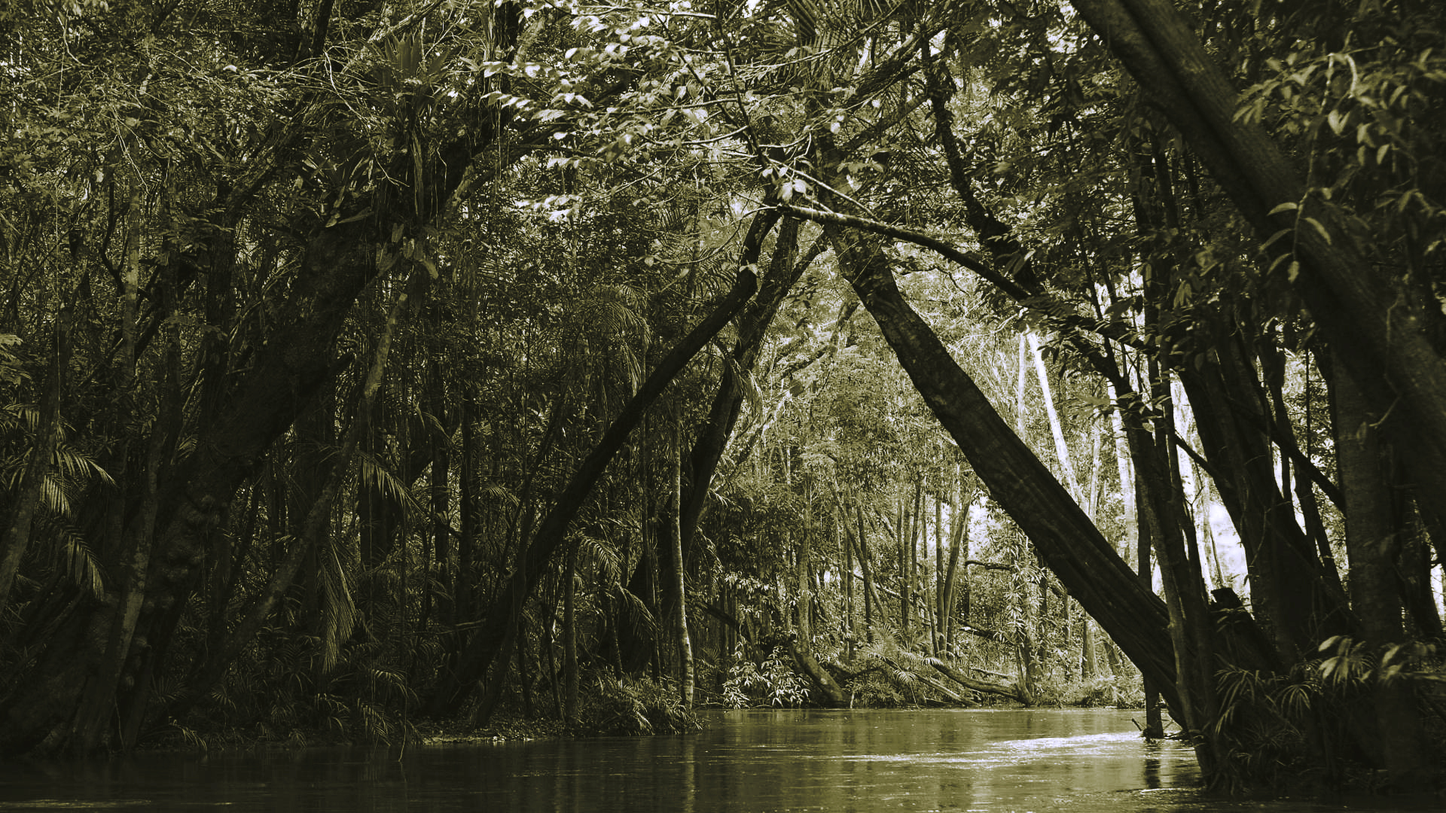
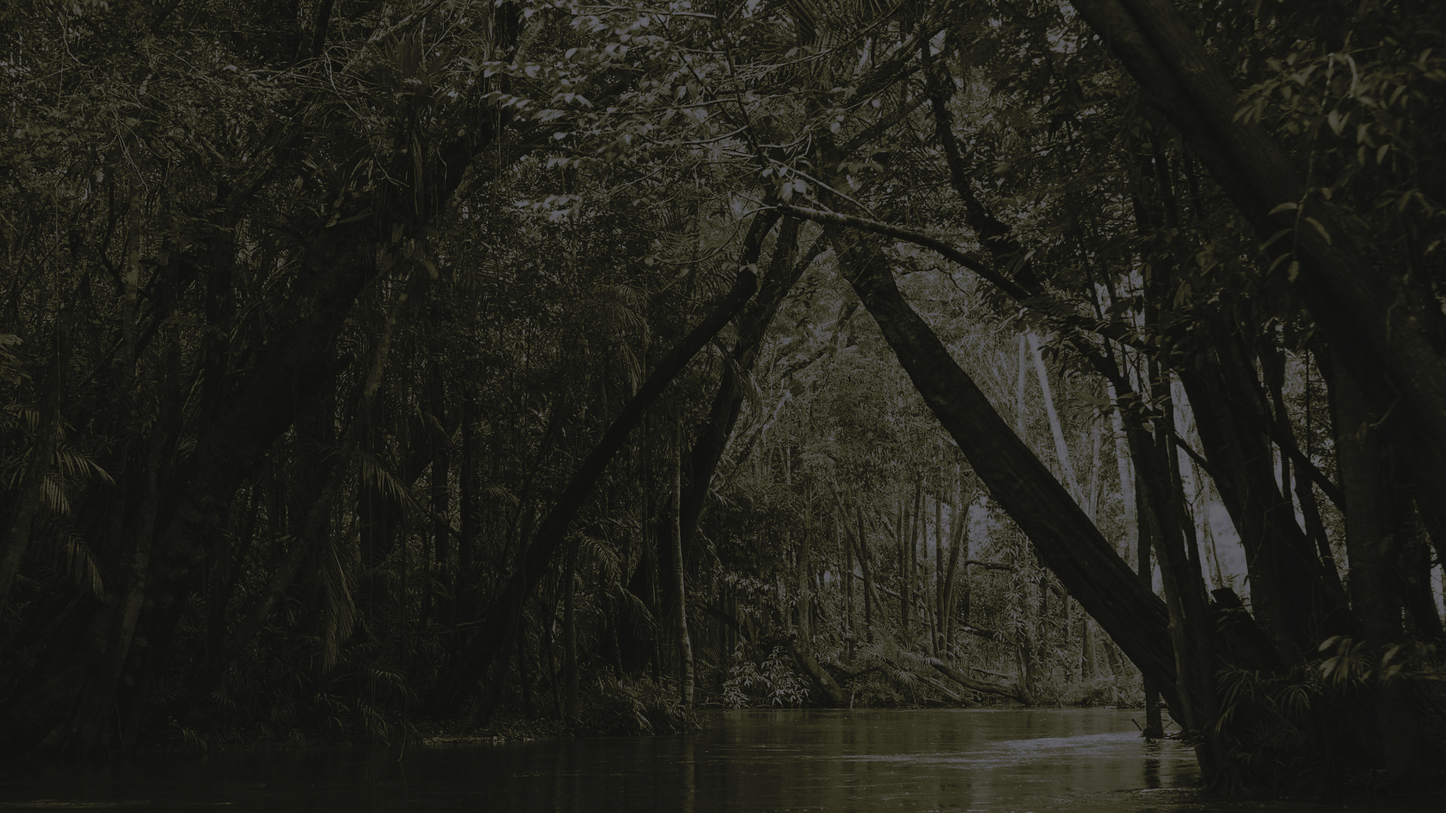
pagina de login pronta e responsiva/jquery zoom adicionado para ser usado futuramente

diff --git a/js/jquery.zoom.min.js b/js/jquery.zoom.min.js
@@ -1,0 +1,6 @@
+/*!
+	Zoom 1.7.21
+	license: MIT
+	http://www.jacklmoore.com/zoom
+*/
+(function(o){var t={url:!1,callback:!1,target:!1,duration:120,on:"mouseover",touch:!0,onZoomIn:!1,onZoomOut:!1,magnify:1};o.zoom=function(t,n,e,i){var u,c,a,r,m,l,s,f=o(t),h=f.css("position"),d=o(n);return t.style.position=/(absolute|fixed)/.test(h)?h:"relative",t.style.overflow="hidden",e.style.width=e.style.height="",o(e).addClass("zoomImg").css({position:"absolute",top:0,left:0,opacity:0,width:e.width*i,height:e.height*i,border:"none",maxWidth:"none",maxHeight:"none"}).appendTo(t),{init:function(){c=f.outerWidth(),u=f.outerHeight(),n===t?(r=c,a=u):(r=d.outerWidth(),a=d.outerHeight()),m=(e.width-c)/r,l=(e.height-u)/a,s=d.offset()},move:function(o){var t=o.pageX-s.left,n=o.pageY-s.top;n=Math.max(Math.min(n,a),0),t=Math.max(Math.min(t,r),0),e.style.left=t*-m+"px",e.style.top=n*-l+"px"}}},o.fn.zoom=function(n){return this.each(function(){var e=o.extend({},t,n||{}),i=e.target&&o(e.target)[0]||this,u=this,c=o(u),a=document.createElement("img"),r=o(a),m="mousemove.zoom",l=!1,s=!1;if(!e.url){var f=u.querySelector("img");if(f&&(e.url=f.getAttribute("data-src")||f.currentSrc||f.src),!e.url)return}c.one("zoom.destroy",function(o,t){c.off(".zoom"),i.style.position=o,i.style.overflow=t,a.onload=null,r.remove()}.bind(this,i.style.position,i.style.overflow)),a.onload=function(){function t(t){f.init(),f.move(t),r.stop().fadeTo(o.support.opacity?e.duration:0,1,o.isFunction(e.onZoomIn)?e.onZoomIn.call(a):!1)}function n(){r.stop().fadeTo(e.duration,0,o.isFunction(e.onZoomOut)?e.onZoomOut.call(a):!1)}var f=o.zoom(i,u,a,e.magnify);"grab"===e.on?c.on("mousedown.zoom",function(e){1===e.which&&(o(document).one("mouseup.zoom",function(){n(),o(document).off(m,f.move)}),t(e),o(document).on(m,f.move),e.preventDefault())}):"click"===e.on?c.on("click.zoom",function(e){return l?void 0:(l=!0,t(e),o(document).on(m,f.move),o(document).one("click.zoom",function(){n(),l=!1,o(document).off(m,f.move)}),!1)}):"toggle"===e.on?c.on("click.zoom",function(o){l?n():t(o),l=!l}):"mouseover"===e.on&&(f.init(),c.on("mouseenter.zoom",t).on("mouseleave.zoom",n).on(m,f.move)),e.touch&&c.on("touchstart.zoom",function(o){o.preventDefault(),s?(s=!1,n()):(s=!0,t(o.originalEvent.touches[0]||o.originalEvent.changedTouches[0]))}).on("touchmove.zoom",function(o){o.preventDefault(),f.move(o.originalEvent.touches[0]||o.originalEvent.changedTouches[0])}).on("touchend.zoom",function(o){o.preventDefault(),s&&(s=!1,n())}),o.isFunction(e.callback)&&e.callback.call(a)},a.setAttribute("role","presentation"),a.alt="",a.src=e.url})},o.fn.zoom.defaults=t})(window.jQuery);

diff --git a/css/index.css b/css/index.css
@@ -45,7 +45,7 @@ body{
 .exibir-produtos{
 	margin-top: 40px; 
 	padding: 30px;
-	background-color: #151515;
+	background-color: #222;
 }
 
 #fogo{
@@ -68,6 +68,11 @@ body{
 	text-align: center;
 	width: 17rem;
 	margin-bottom: 50px;
+	transition: all 0.2s ease;
+}
+
+.card.produto:hover{
+	transform: scale(1.035);
 }
 
 .card-img-top{
@@ -85,34 +90,6 @@ body{
 	font-weight: 900;
 }
 /*----------------------------------------------------*/
-
-
-/*------------- FOOTER -------------*/
-#footer{
-	position: relative;
-    left: 0;
-    bottom: 0;
-    margin: 70px 0px 0px 0px;
-    color: white;
-    font-size: .9em;
-    padding: 20px 10px;
-    padding-bottom: 5px;
-    background-color: #151515;    
-}
-
-#midia{
-	margin-left: 10px;
-}
-
-#telefone{
-	text-align: left;
-}
-
-#gp-midias{
-	text-align: right;
-}
-/*---------------------------------*/
-
 
 
 @media only screen and (max-width: 768px) {
@@ -142,13 +119,6 @@ body{
 		display: none;
 	}
 
-	#telefone{
-		text-align: center;
-	}
-
-	#gp-midias{
-		text-align: center;
-	}
 }
 
 

diff --git a/css/forms.css b/css/forms.css
@@ -1,0 +1,65 @@
+body{
+	background-color: #888888;
+	background: url('../img/index-bg.jpg') no-repeat;
+	-webkit-background-size: cover;
+	-moz-background-size: cover;
+	-o-background-size: cover;
+	background-attachment: fixed;
+}
+
+#container-form a{
+	color: #fff;
+	font-weight: 600;
+}
+
+#container-form a:hover{
+	color: #fff;
+	font-weight: 600;
+}
+
+#container-form{
+	margin-top: 150px;
+	color: #fff;
+}
+
+#welcome{
+	font-size: 1.4em;
+	text-align: center;
+}
+
+.dropdown-divider{
+	margin-bottom: 25px;
+}
+
+#btnXS{
+	display: none;
+}
+
+#window{
+	padding: 20px 40px 30px 40px;
+	background-color: rgba(0, 0, 0, 0.8);
+}
+
+@media only screen and (max-width: 768px){
+	body{
+		background: none;
+		background-color: #202020;
+	}
+
+	#btnXL{
+		display: none;
+	}
+
+	#btnXS{
+		display: block;
+	}
+
+	#container-form{
+		margin-top: 120px;
+	}
+
+	#window{
+		padding: 0 30px;
+		background-color: transparent;
+	}
+}

diff --git a/css/index_menu.css b/css/index_menu.css
@@ -55,7 +55,7 @@
 	margin: 0 30px 0 10px;
 }
 
-input[name="txtBuscar"]{
+#txtBuscar{
 	padding-left: 10px;
 }
 /*-----------------------*/
@@ -84,7 +84,7 @@ input[name="txtBuscar"]{
 	}
 
 	#buscaMenu{
-		margin: 20px 0 10px 0;
+		margin: 20px 0 10px 0px;
 	}
 
 	#menuHeader{

diff --git a/index.php b/index.php
@@ -14,9 +14,7 @@
 	<!--div genérica para encobrir o conteudo e impedir o scroll horizontal-->
 	<div style="overflow-x: hidden;">
 		
-	<!-- --------------------- INI MENU --------------------- -->
 	<?php require_once "index_menu.php" ?>
-	<!-- --------------------- FIM MENU --------------------- -->
 
 		<!-- --------------------- INI CARROSSEL --------------------- -->
 		<div id="cslTrending" class="carousel slide d-none d-md-block" data-ride="carousel">
@@ -84,7 +82,7 @@
 			<div class="row">
 				<div class="col-sm-12 col-md-6 col-lg-4">
 					<div class="card produto mx-auto">
-						<img class="card-img-top" src="img/produtos/machado.jpg">
+						<a href="#"><img class="card-img-top" src="img/produtos/machado.jpg"></a>
 						<div class="card-body">
 							<p class="card-title titulo-produto">MACHADINHA COM SERROTE SURVIVAL - GUEPARDO</p>
 							<p class="card-text preco">R$ 239,62</p>
@@ -94,7 +92,7 @@
 				</div>
 				<div class="col-sm-12 col-md-6 col-lg-4">
 					<div class="card produto mx-auto">
-						<img class="card-img-top" src="img/produtos/faca.jpg">
+						<a href="#"><img class="card-img-top" src="img/produtos/faca.jpg"></a>
 						<div class="card-body">
 							<p class="card-title titulo-produto">CANIVETE INVICTUS PHANTON</p>
 							<p class="card-text preco">R$ 75,00</p>
@@ -104,7 +102,7 @@
 				</div>
 				<div class="col-sm-12 col-md-6 col-lg-4">
 					<div class="card produto mx-auto">
-						<img class="card-img-top" src="img/produtos/afiador.jpg">
+						<a href="#"><img class="card-img-top" src="img/produtos/afiador.jpg"></a>
 						<div class="card-body">
 							<p class="card-title titulo-produto">AFIADOR DUPLO DE BOLSO VICTORINOX</p>
 							<p class="card-text preco">R$ 89,90</p>
@@ -116,20 +114,8 @@
 		</div>
 		<!-- --------------------- FIM CONTEUDO CENTRAL --------------------- -->
 
-		<footer id="footer">
-			<div class="row">
-				<div class="col-md-6 col-sm-12" id="telefone">
-					<p><ion-icon name="call"></ion-icon> Telefone: (11)2323-9878 / (13) 2392-2938</p>
-				</div>
-				<div class="col-md-6 col-sm-12" id="gp-midias">
-					<p> 
-						<img src="img/social/instagram.png" width="24px" id="midia">
-						<img src="img/social/wpp.png" width="24px" id="midia">
-						<img src="img/social/facebook.png" width="24px" id="midia">
-					</p>
-				</div>
-			</div>
-		</footer>
+		<?php require_once "footer.php" ?>
+		
 	</div>
 	
 	<script src="https://unpkg.com/ionicons@4.5.5/dist/ionicons.js"></script>

diff --git a/login.php b/login.php
@@ -1,0 +1,52 @@
+<!DOCTYPE html>
+<html lang="pt-br">
+<head>
+	<meta charset="utf-8">
+	<meta name="viewport" content="width=device-width, initial-scale = 1.0, maximum-scale=1.0, user-scalable=no"/>
+	<link rel="icon" href="img/favicon.ico">
+	<link rel="stylesheet" type="text/css" href="css/bootstrap.min.css">
+	<link rel="stylesheet" type="text/css" href="css/forms.css">
+	<link href="https://fonts.googleapis.com/css?family=Rubik" rel="stylesheet"> 
+	<style type="text/css">body{font-family: 'Rubik', sans-serif;}</style>
+	<title>Vegetation</title>
+</head>
+<body>
+	<!--div genérica para encobrir o conteudo e impedir o scroll horizontal-->
+	<div style="overflow-x: hidden;">
+		
+	<?php require_once "index_menu.php" ?>
+	
+	<div class="container" id="container-form">
+		<!-- <div id="window"> -->
+			<div class="row justify-content-center">
+				<div class="col-md-4 col-sm-12 justify-content-left" id="window">
+					<p id="welcome">Bem-vindo! Entre com suas credenciais</p>
+					<div class="dropdown-divider"></div>
+					<form id="formLogin">
+						<div class="form-group">
+							<label for="txtLogin">Nome de usuário ou e-mail:</label>
+							<input type="text" name="txtLogin" id="txtLogin" aria-describedby="xpLogin" class="form-control" placeholder="Digite aqui seu usuário ou e-mail" size="30px">
+							<small id="xpLogin" class="form-text text-muted">O mesmo utilizado no cadastro. Caso você ainda não tenha um, <a href="#">clique aqui.</a></small>
+						</div>
+						<div class="form-group">
+							<label for="txtSenha">Senha:</label>
+							<input type="password" name="txtSenha" id="txtSenha" aria-describedby="xpSenha" class="form-control" placeholder="••••••••••••">
+							<small id="xpSenha" class="form-text text-muted">Caso tenha esquecido sua senha, <a href="">clique aqui</a>.</small>
+						</div>
+						<button class="btn btn-primary btn-block" type="submit" id="btnXL">Entrar</button>
+						<button class="btn btn-success btn-block" type="submit" id="btnXS">Entrar</button>
+					</form>
+				</div>
+			</div>
+		<!-- </div> -->		
+	</div>
+
+	<?php require_once "footer.php" ?>
+		
+	</div>
+	
+	<script src="https://unpkg.com/ionicons@4.5.5/dist/ionicons.js"></script>
+	<script src="js/jquery.min.js"></script>
+	<script src="js/bootstrap.min.js"></script>
+</body>
+</html>

diff --git a/index_menu.php b/index_menu.php
@@ -13,7 +13,7 @@
 </script>
 <div id="menuHeader">
 	<nav class="navbar navbar-expand-xl navbar-dark bg-dark menu-fixo" id="menuHeader">
-		<a href="#" class="navbar-brand font-weight-bold"><img src="img/logo.png" class="d-inline-block align-top" id="logo"></a>
+		<a href="index.php" class="navbar-brand font-weight-bold"><img src="img/logo.png" class="d-inline-block align-top" id="logo"></a>
 		<button class="navbar-toggler" type="button" data-toggle="collapse" data-target="#conteudo-menu" aria-expanded="false">
 			<span class="navbar-toggler-icon"></span>
 		</button>
@@ -52,13 +52,13 @@
 			<div class="dropdown-divider"></div>
 
 				<li class="nav-item" id="sec-carrinho">
-					<button class="btn btn-success text-white btn-sm"><img src="img/carrinho.png" width="26px"> Suas compras: <strong>R$0,00</strong></button>
+					<a href="#" class="btn btn-success text-white btn-sm"><img src="img/carrinho.png" width="26px"> Suas compras: <strong>R$0,00</strong></a>
 				</li>
 
 				<div class="dropdown-divider"></div>
 			<form class="form-inline text-sm-center justify-content-center" id="sec-usuario">
-				<button href="#" class="btn btn-light btnmenu"><ion-icon name="log-in"></ion-icon> Login</button>
-				<button href="#" class="btn btn-light btnmenu"><ion-icon name="person-add"></ion-icon> Cadastrar-se</button>
+				<a href="login.php" class="btn btn-light btnmenu"><ion-icon name="log-in"></ion-icon> Login</a>
+				<a href="#" class="btn btn-light btnmenu"><ion-icon name="person-add"></ion-icon> Cadastrar-se</a>
 			</form>
 		</div>
 	</nav>

diff --git a/footer.php b/footer.php
@@ -1,0 +1,60 @@
+<style>
+	#footer{
+	position: relative;
+    left: 0;
+    bottom: 0;
+    margin: 70px 0px 0px 0px;
+    color: white;
+    font-size: .9em;
+    padding: 20px 30px 5px 25px;
+    padding-bottom: 5px;
+    background-color: #151515;    
+	}
+
+	#midia{
+		margin-left: 10px;
+	}
+
+	#telefone{
+		text-align: left;
+	}
+
+	#gp-midias{
+		text-align: right;
+	}
+
+	#git{
+		color: #fff;
+		background-color: #000;
+		text-align: center;
+	}
+
+	a #git{
+		text-decoration: none;
+		color: #fff;
+	}
+
+	@media only screen and (max-width: 768px){
+		#telefone{
+			text-align: center;
+		}
+
+		#gp-midias{
+			text-align: center;
+		}
+	}
+</style>
+<footer id="footer">
+	<div class="row">
+		<div class="col-md-6 col-sm-12" id="telefone">
+			<p><ion-icon name="call"></ion-icon> Telefone: (11)2323-9878 / (13) 2392-2938</p>
+		</div>
+		<div class="col-md-6 col-sm-12" id="gp-midias">
+			<p> 
+				<img src="img/social/instagram.png" width="24px" id="midia">
+				<img src="img/social/wpp.png" width="24px" id="midia">
+				<img src="img/social/facebook.png" width="24px" id="midia">
+			</p>
+		</div>
+	</div>
+</footer>
